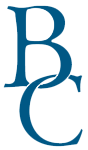
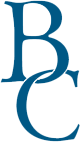
Crop images

Changed region(s): [[0.0, 0.0, 1.0, 1.0], [0.35, 0.6479, 0.375, 0.6761]]

diff --git a/README.md b/README.md
@@ -59,9 +59,11 @@ The following considerations have arisen while developing the application.
 ### Features/Enhancements
 
 - Add choices among fonts
+- Add color picker 
+- Add vertical bar resizer
 - Add image upload functionality
-- Sizes lock aspect ratio checkbox
 - Add additional detail functionality
+- Sizes lock aspect ratio checkbox
 - Add useStyles
 
 ## Changelog 
